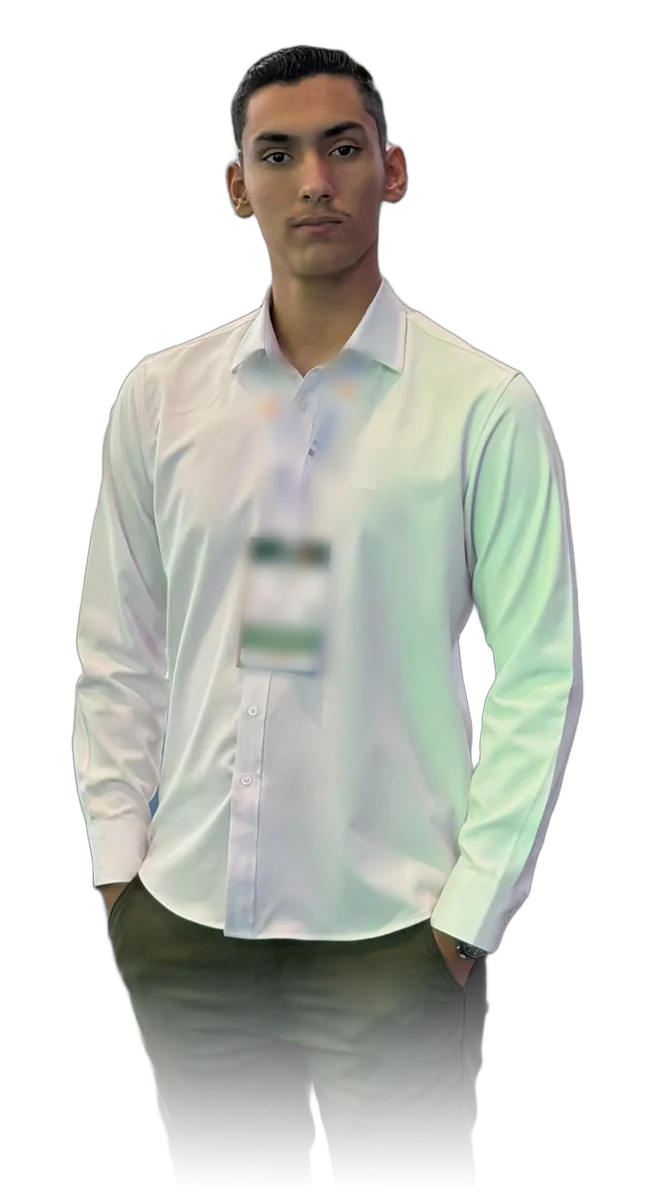
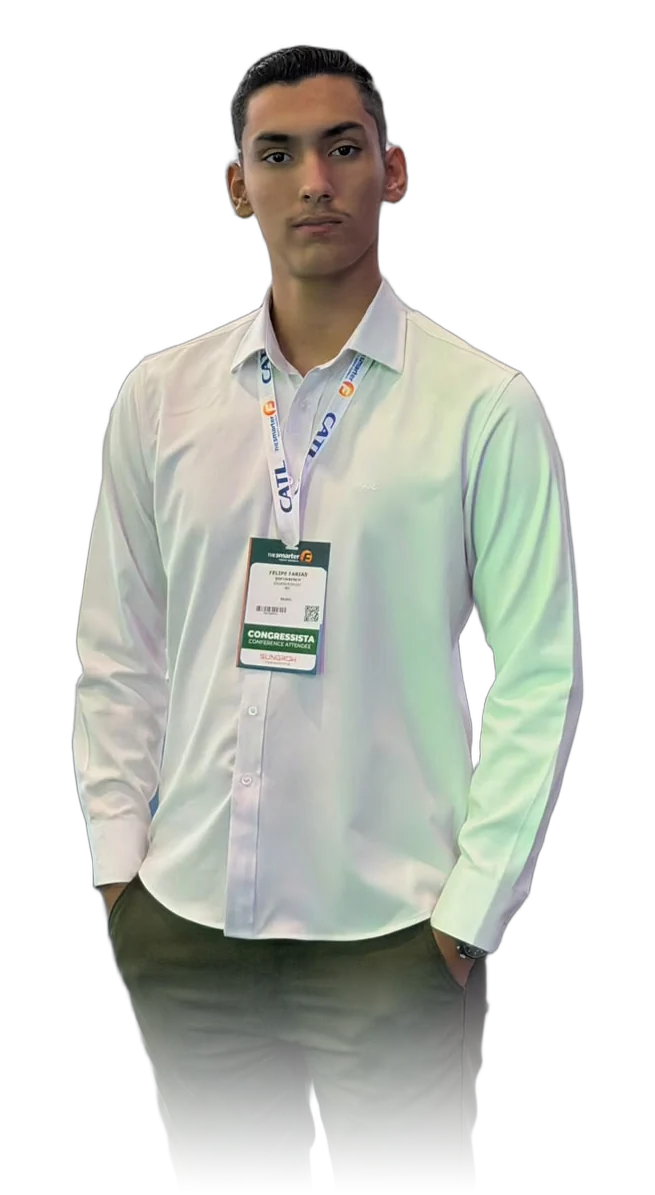
design: keep the event badge unblurred in the hero photo
Felipe asked to show the badge as is.

Claude-Session: https://claude.ai/code/session_012ga4LV54vsJubMYN6k13Y3

Changed region(s): [[0.3664, 0.2787, 0.5191, 0.5883], [0.4885, 0.2787, 0.5802, 0.3406]]

diff --git a/design/BRIEFING.md b/design/BRIEFING.md
@@ -61,7 +61,7 @@ O protótipo navegável está em `design/prototipo/index.html`.
 Regra do Felipe: o design não pode remeter a nenhum setor de negócio, apenas a TI. A v2 (Matrix) foi reprovada; a v3 segue a referência enviada por ele (pôster escuro com vermelho, palavra gigante atrás da foto recortada).
 
 - **Abertura:** log de boot, contador 000→100%, barra de progresso e a tela abrindo ao meio com um traço vermelho. Botão para pular (Enter/Esc) e para rever.
-- **Hero:** "PORTFOLIO" gigante em verde atrás da foto recortada (Felipe de camisa branca, olhando para a câmera; crachá e cordão de evento desfocados para não exibir marcas). A foto do pitch com microfone e notebook foi para a seção Sobre. Nome, cargo, bio e CTAs à esquerda; janela de terminal do Guardião e números (7 projetos, 3º lugar, 17 certificados) à direita. Cursores colaborativos flutuando (C#, SQL Server, AngularJS) e um cursor "você" que segue o mouse.
+- **Hero:** "PORTFOLIO" gigante em verde atrás da foto recortada (Felipe de camisa branca, olhando para a câmera; crachá mantido sem edição, a pedido dele). A foto do pitch com microfone e notebook foi para a seção Sobre. Nome, cargo, bio e CTAs à esquerda; janela de terminal do Guardião e números (7 projetos, 3º lugar, 17 certificados) à direita. Cursores colaborativos flutuando (C#, SQL Server, AngularJS) e um cursor "você" que segue o mouse.
 - **Profundidade 3D:** grade, brilho, palavra, foto e interface se movem em camadas com o mouse.
 - **Seções:** faixas cruzadas com a stack, Sobre com a foto do pitch recortada, Experiência com anos gigantes, Projetos com destaque do Guardião e lista com prévia flutuante de código, Stack em esfera 3D (Three.js) que gira com arraste, Formação em cards, Contato com "Vamos conversar" gigante.
 - **Paleta (v3.1, verde a pedido do Felipe):** preto `#0A0A0C`, grafite `#131317`, verde `#22D877`, verde escuro `#0C5A33`, off-white `#F3F0EC`, cinza `#8E8E96`; amarelo `#F5B940` só para pendências do protótipo.
